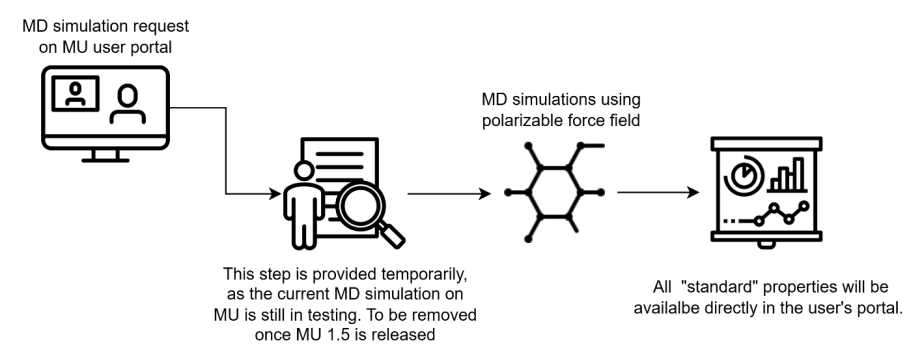
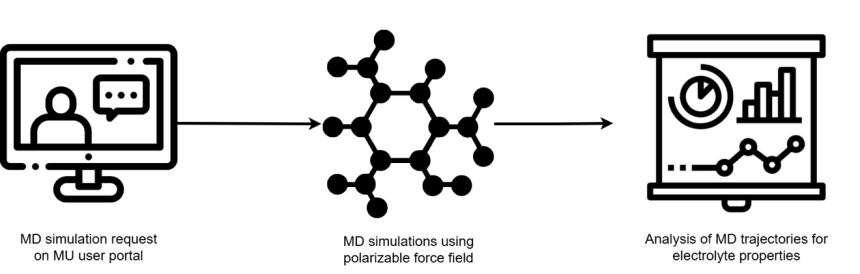
feat: update mu introduction

Changed region(s): [[0.0, 0.0292, 0.9977, 0.9635], [0.0, 0.8467, 0.1814, 0.9635]]

diff --git a/src/pages/FormulationNew/components/IntroductionNew/index.tsx b/src/pages/FormulationNew/components/IntroductionNew/index.tsx
@@ -1,5 +1,6 @@
 import React from 'react';
 import { useTranslation } from 'react-i18next';
+import { Info } from 'lucide-react';
 import PropertiesTable from '../PropertiesTable';
 import './index.css';
 
@@ -12,10 +13,7 @@ const IntroductionNew: React.FC = () => {
       <div className="function-intro-section">
         <h2 className="section-title">Function Introduction</h2>
         <p className="section-description">
-          Molecular dynamics (MD) simulations in MU's platform uniquely combine advanced polarizable force fields with an automated workflow,
-          capturing ion–solvent interactions with high fidelity. Users simply submit electrolyte formulations through the MU portal, and within days
-          receive quantitative predictions of key properties—delivering faster, more reliable insights than conventional trial-and-error or standard
-          modeling approaches.
+          Molecular dynamics (MD) simulations in MU’s platform uniquely combine advanced polarizable force fields with an automated workflow, capturing ion–solvent interactions with high fidelity. Users simply submit desired electrolyte formulations through the MU portal containing any known or unknown molecules, and within days will receive quantitative predictions of key properties—delivering faster and more accurate insights than conventional trial-and-error or classical modeling approaches.
         </p>
 
         {/* MD Service Workflow Image */}
@@ -26,7 +24,7 @@ const IntroductionNew: React.FC = () => {
             className="content-image"
           />
           <div className="image-caption">
-            Our proprietary Molecular Dynamics (MD) service for electrolyte formulation
+            [Caption] Our proprietary Molecular Dynamics (MD) service for electrolyte formulation
           </div>
         </div>
       </div>
@@ -36,12 +34,10 @@ const IntroductionNew: React.FC = () => {
         <div className="content-layout">
           <div className="content-text" style={{ paddingTop: '45px' }}>
             <p className="content-description">
-              MU's proprietary MD service provides molecular-level snapshots of electrolyte formulations, capturing how Li⁺, anions, and solvents
-              organize at different salt concentrations.
+              MU’s proprietary MD service provides molecular-level snapshots of electrolyte formulations, capturing how Li⁺, anions, and solvent molecules organize at different salt concentrations.
             </p>
             <p className="content-description">
-              Each simulation run completes in ~3 days, after which customers receive quantitative property predictions—delivering
-              fast, reliable insights to guide electrolyte design and optimization beyond traditional trial-and-error approaches.
+              Each standard simulation run completes in ~3 days depending on the complexity of the formulation, after which customers receive quantitative property predictions—delivering fast and reliable insights to guide electrolyte design and optimization, which saves tremendous cost and time.
             </p>
           </div>
           <div className="content-image-section">
@@ -51,7 +47,7 @@ const IntroductionNew: React.FC = () => {
               className="content-image"
             />
             <div className="image-caption">
-              Accelerating electrolyte design with MD simulations across concentrations
+              [Caption] Accelerating electrolyte design with MD simulations across concentrations
             </div>
           </div>
         </div>
@@ -65,7 +61,8 @@ const IntroductionNew: React.FC = () => {
         </div>
         <div className="properties-note">
           <p className="note-text">
-            The properties listed as Group 1 will be available in 3 days as soon as the MD simulations are complete. For other properties, please contact our team.
+            <Info size={16} style={{ marginRight: '8px', flexShrink: 0 }} />
+            <span>Properties listed as Standard Properties will be available in about 3 days as soon as the MD simulations are complete. For other properties, please contact our team.</span>
           </p>
           <button className="contact-team-button">
             Contact Team
@@ -85,8 +82,7 @@ const IntroductionNew: React.FC = () => {
           <div className="property-number">01</div>
           <h3 className="property-title">Radial distribution function (RDF)</h3>
           <p className="property-description">
-            Probability of finding a particle at a given distance from a reference particle, describing local structure.
-            This has impacts on solubility, conductivity, dissolution at electrolyte-electrode interphase, and SEI.
+            Probability of finding a particle at a given distance from a reference particle. RDF describes local structure of electrolytes, which directly impacts solubility, miscibility, ion conductivity, solvation structure and interphases. 
           </p>
         </div>
 
@@ -95,7 +91,7 @@ const IntroductionNew: React.FC = () => {
           <div className="property-number">02</div>
           <h3 className="property-title">Coordination number (CN)</h3>
           <p className="property-description">
-            Average number of neighboring atoms/ions surrounding a central particle.
+           Average number of neighboring atoms/molecules surrounding a central ion. This has impact on conductivity, solubility and interphases.
           </p>
         </div>
 
@@ -105,7 +101,7 @@ const IntroductionNew: React.FC = () => {
           <h3 className="property-title">Solvation cluster analysis</h3>
           <div className="property-description-wrapper">
             <p className="property-description">
-              Analyzes how cations and anions associate in electrolyte solutions through three key configurations:
+              Analyzes how cations and anions associate in electrolyte solutions. Three major cluster types: 
             </p>
 
             {/* SSIP */}
@@ -114,8 +110,7 @@ const IntroductionNew: React.FC = () => {
               <div className="cluster-details">
                 <h4 className="cluster-name">Solvent-Separated Ion Pair</h4>
                 <p className="cluster-desc">
-                  Cation-anion correlated but at least one solvent molecule sits between. Favored in high-dielectric solvents;
-                  supports higher Li⁺ mobility.
+                 Cation-anion associated but with at least one solvent molecule sits between them. Such species prevail in high-dielectric solvents; supports higher Li⁺ mobility and typically higher conductivity.
                 </p>
               </div>
             </div>
@@ -126,8 +121,7 @@ const IntroductionNew: React.FC = () => {
               <div className="cluster-details">
                 <h4 className="cluster-name">Contact Ion Pair</h4>
                 <p className="cluster-desc">
-                  Cation-anion directly contact, no solvent in between. More common at higher salt concentration;
-                  can slow down ion transport.
+                 Cation–anion forms direct contact with no solvent molecules in between. Such species are more common at higher salt concentration or in solvents of low dielectric constants; their existence can slow down ion transport, leading to typically lower conductivity.
                 </p>
               </div>
             </div>
@@ -138,8 +132,7 @@ const IntroductionNew: React.FC = () => {
               <div className="cluster-details">
                 <h4 className="cluster-name">Aggregate</h4>
                 <p className="cluster-desc">
-                  Larger clusters with multiple cations/anions linked together. Dominant in concentrated electrolytes;
-                  often reduces conductivity.
+                 Larger clusters with multiple cations/anions linked together. Dominant in concentrated electrolytes; often reduces conductivity. 
                 </p>
               </div>
             </div>
@@ -155,7 +148,7 @@ const IntroductionNew: React.FC = () => {
             </div>
 
             <p className="cluster-summary">
-              The fraction of SSIP/CIP/AGG provides a structural descriptor linking solvation environment to ionic conductivity, viscosity, and Li⁺ transport behavior.
+              The fraction of SSIP/CIP/AGG provides a structural descriptor linking solvation environment to viscosity, and Li⁺ transport behavior such as ion conductivity, transference number.
             </p>
           </div>
         </div>
@@ -165,7 +158,7 @@ const IntroductionNew: React.FC = () => {
           <div className="property-number">04</div>
           <h3 className="property-title">Diffusivity</h3>
           <p className="property-description">
-            Rate of particle spreading due to random motion, linked to mobility.
+            Rate at which particles move randomly in the absence of an electric field, closely related to migration properties like mobility. 
           </p>
         </div>
 
@@ -175,7 +168,7 @@ const IntroductionNew: React.FC = () => {
           <h3 className="property-title">Conductivity</h3>
           <div className="property-description-wrapper">
             <p className="property-description">
-              Ability of ions/electrons to carry charge through a medium. As shown in the figure below, our MD-calculated ionic conductivity aligns well with experimental benchmarks, providing reliable predictions for electrolyte design.
+              Ability of ions or other charged particles to carry charges through a medium under the action of electric field. Benchmark of predicted ionic conductivity against experimental values can be seen in the following figure.  
             </p>
 
             <div className="property-image-section">
@@ -186,7 +179,13 @@ const IntroductionNew: React.FC = () => {
               />
               <div className="image-caption">MD Simulation Accuracy: Predicted vs. Measured Ionic Conductivity</div>
               <p className="image-description">
-                Our molecular dynamics simulations demonstrate excellent agreement with experimental ionic conductivity measurements across over 100 electrolyte formulation systems (0-40 mS/cm). Points close to the diagonal line indicate high prediction accuracy, giving you confidence in simulation-based screening before synthesis.
+                Our molecular dynamics simulations (blue points) show excellent agreement with experimental ionic conductivity measurements across more than 100 electrolyte formulations spanning 0–40 mS cm⁻¹. The benchmark includes a wide variety of common and novel solvents— sulfone, sulfite, ether, ester, carbonate, nitrile, siloxane, borate, phosphate ester. 
+              </p>
+              <p className="image-description">
+                In contrast, the external machine-learning force field (MLFF, open circles) has been benchmarked only on a small subset of carbonate systems. Our force field achieves accuracy on par with, and in many cases exceeding, the MLFF in those carbonate systems, while also demonstrating high predictive power across a far broader chemical space where the MLFF’s performance remains untested. 
+              </p>
+              <p className="image-description">
+                Points lying near the black diagonal (y = x) confirm the reliability of our simulation-based screening before synthesis. 
               </p>
             </div>
           </div>
@@ -215,7 +214,7 @@ const IntroductionNew: React.FC = () => {
       <div className="content-section">
         <div className="group-header">
           <span className="group-label">GROUP 02</span>
-          <h2 className="section-title group-title">Instructions Needed</h2>
+          <h2 className="section-title group-title">Advanced Analysis</h2>
         </div>
 
         {/* Property 08: Ion–ion correlation */}
@@ -223,7 +222,7 @@ const IntroductionNew: React.FC = () => {
           <div className="property-number">08</div>
           <h3 className="property-title">Ion–ion correlation</h3>
           <p className="property-description">
-            Measure of how ionic positions and motions are correlated beyond random distribution.
+            Measure of how ionic species are correlated beyond random distribution. 
           </p>
         </div>
 
@@ -241,7 +240,7 @@ const IntroductionNew: React.FC = () => {
           <div className="property-number">10</div>
           <h3 className="property-title">Dynamic structure factor (S(q,ω))</h3>
           <p className="property-description">
-            Function describing the space-time correlations of particles.
+            Function describing the space-time correlations of particles. 
           </p>
         </div>
 
@@ -250,7 +249,7 @@ const IntroductionNew: React.FC = () => {
           <div className="property-number">11</div>
           <h3 className="property-title">Residence time</h3>
           <p className="property-description">
-            Average time an ion/molecule stays bound or in the vicinity of another species.
+            Average time an ion/molecule stays bound or in the vicinity of another species.  
           </p>
         </div>
       </div>
@@ -259,7 +258,7 @@ const IntroductionNew: React.FC = () => {
       <div className="content-section">
         <div className="group-header">
           <span className="group-label">GROUP 03</span>
-          <h2 className="section-title group-title">Advanced Properties</h2>
+          <h2 className="section-title group-title">Custom Studies</h2>
         </div>
 
         {/* Property 12: EDL */}
@@ -278,7 +277,7 @@ const IntroductionNew: React.FC = () => {
                 className="property-image"
               />
               <div className="image-caption">
-                Electric double layer under well-controlled electrostatic potential. In this MD simulation, electrolyte is created between two electrodes. By mimicking the potential change across the quasi cell, surface structure under electrostatic potential can be studied.
+                Electric double layer structure under well-controlled electrostatic potential. In this snapshot of MD simulation, electrolyte of given formulation from the user is placed between two electrodes. By mimicking the potential change across the virtual cell, surface structure under electrostatic potential can be visualized, whose chemical distribution predetermines the eventual interphasial chemistries.
               </div>
             </div>
           </div>
@@ -290,7 +289,7 @@ const IntroductionNew: React.FC = () => {
           <h3 className="property-title">Solubility</h3>
           <div className="property-description-wrapper">
             <p className="property-description">
-              Maximum amount of a substance that can dissolve in a solvent under equilibrium conditions.
+              Maximum amount of a salt or a molecular species that can be homogenously distributed (i.e., dissolved or blended) in a given medium under equilibrium conditions.
             </p>
 
             <div className="property-image-section">
@@ -300,7 +299,7 @@ const IntroductionNew: React.FC = () => {
                 className="property-image"
               />
               <div className="image-caption">
-                Our MD Simulations Accurately Predict solubility of LiFSI in 19 solvents. Points close to the diagonal line indicate high prediction accuracy, giving you confidence in simulation-based screening before synthesis.
+                Our MD Simulations accurately predicts the solubility of a typical lithium salt LiFSI in 19 solvents of diverse chemical structures and functional groups. Points close to the diagonal line indicate high prediction accuracy, giving you confidence in simulation-based screening before synthesis. 
               </div>
             </div>
           </div>

diff --git a/src/pages/FormulationNew/components/Introduction/index.tsx b/src/pages/FormulationNew/components/Introduction/index.tsx
@@ -34,38 +34,42 @@ const Introduction: React.FC = () => {
       <div className="guide-content-section">
         <h4>Group 1. Standard properties</h4>
         <ol>
-          <li><strong>Radial distribution function (RDF)</strong>: Probability of finding a particle at a given distance from a reference particle, describing local structure. This has impacts on solubility, conductivity, dissolution at electrolyte-electrode interphase, and SEI.</li>
-          <li><strong>Coordination number (CN)</strong>: Average number of neighboring atoms/ions surrounding a central particle.</li>
-          <li><strong>Solvation cluster type and fraction analysis</strong>: Analyzes how cations and anions associate in electrolyte solutions:
-            <br />• <strong>SSIP (Solvent-Separated Ion Pair)</strong>: Cation-anion correlated but at least one solvent molecule sits between. Favored in high-dielectric solvents; supports higher Li⁺ mobility.
-            <br />• <strong>CIP (Contact Ion Pair)</strong>: Cation-anion directly contact, no solvent in between. More common at higher salt concentration; can slow down ion transport.
+          <li><strong>Radial distribution function (RDF)</strong>: Probability of finding a particle at a given distance from a reference particle. RDF describes local structure of electrolytes, which directly impacts solubility, miscibility, ion conductivity, solvation structure and interphases.</li>
+          <li><strong>Coordination number (CN)</strong>: Average number of neighboring atoms/molecules surrounding a central ion. This has impact on conductivity, solubility and interphases.</li>
+          <li><strong>Solvation cluster type and fraction analysis</strong>: Analyzes how cations and anions associate in electrolyte solutions. Three major cluster types:
+            <br />• <strong>SSIP (Solvent-Separated Ion Pair)</strong>: Cation-anion associated but with at least one solvent molecule sits between them. Such species prevail in high-dielectric solvents; supports higher Li⁺ mobility and typically higher conductivity.
+            <br />• <strong>CIP (Contact Ion Pair)</strong>: Cation–anion forms direct contact with no solvent molecules in between. Such species are more common at higher salt concentration or in solvents of low dielectric constants; their existence can slow down ion transport, leading to typically lower conductivity.
             <br />• <strong>AGG (Aggregate)</strong>: Larger clusters with multiple cations/anions linked together. Dominant in concentrated electrolytes; often reduces conductivity.
-            <br />The fraction of SSIP/CIP/AGG provides a structural descriptor linking solvation environment to ionic conductivity, viscosity, and Li⁺ transport behavior.
+            <br />The fraction of SSIP/CIP/AGG provides a structural descriptor linking solvation environment to viscosity, and Li⁺ transport behavior such as ion conductivity, transference number.
             <div className="cluster-illustration">
               <img src="/formulation/cluster-illustration.jpg" alt="Solvation cluster types illustration" />
               <div className="figure-caption">Representative Li solvate clusters</div>
             </div>
           </li>
-          <li><strong>Diffusivity</strong>: Rate of particle spreading due to random motion, linked to mobility.</li>
-          <li><strong>Conductivity</strong>: Ability of ions/electrons to carry charge through a medium. As shown in the figure below, our MD-calculated ionic conductivity aligns well with experimental benchmarks, providing reliable predictions for electrolyte design.</li>
+          <li><strong>Diffusivity</strong>: Rate at which particles move randomly in the absence of an electric field, closely related to migration properties like mobility.</li>
+          <li><strong>Conductivity</strong>: Ability of ions or other charged particles to carry charges through a medium under the action of electric field. Benchmark of predicted ionic conductivity against experimental values can be seen in the following figure.</li>
           <li><strong>Viscosity</strong>: Resistance of a fluid to flow or deformation under shear stress.</li>
           <li><strong>Density</strong>: Mass per unit volume, reflecting system compactness.</li>
         </ol>
         <img src="/formulation/introduction4.png" alt="MD simulation results" />
         <div className="figure-caption">MD Simulation Accuracy: Predicted vs. Measured Ionic Conductivity</div>
         <p>
-        Our molecular dynamics simulations demonstrate excellent agreement with experimental ionic conductivity measurements across over 100 
-        electrolyte formulation systems (0-40 mS/cm). Points close to the diagonal line indicate high prediction accuracy, giving you confidence in 
-        simulation-based screening before synthesis.
+        Our molecular dynamics simulations (blue points) show excellent agreement with experimental ionic conductivity measurements across more than 100 electrolyte formulations spanning 0–40 mS cm⁻¹. The benchmark includes a wide variety of common and novel solvents— sulfone, sulfite, ether, ester, carbonate, nitrile, siloxane, borate, phosphate ester.
+        </p>
+        <p>
+        In contrast, the external machine-learning force field (MLFF, open circles) has been benchmarked only on a small subset of carbonate systems. Our force field achieves accuracy on par with, and in many cases exceeding, the MLFF in those carbonate systems, while also demonstrating high predictive power across a far broader chemical space where the MLFF's performance remains untested.
+        </p>
+        <p>
+        Points lying near the black diagonal (y = x) confirm the reliability of our simulation-based screening before synthesis.
         </p>
       </div>
 
       <div className="guide-content-section">
         <h4>Group 2. Instructions needed</h4>
         <ol start={8}>
-        <li><strong>Ion–ion correlation</strong>: Measure of how ionic positions and motions are correlated beyond random distribution.</li>
+        <li><strong>Ion–ion correlation</strong>: Measure of how ionic species are correlated beyond random distribution.</li>
           <li><strong>Structure factor (S(q))</strong>: Quantifies how atomic arrangements scatter radiation, revealing ordering in reciprocal space.</li>
-          <li><strong>Dynamic structure factor (S(q,ω))</strong>: function describing the space-time correlations of particles.</li>
+          <li><strong>Dynamic structure factor (S(q,ω))</strong>: Function describing the space-time correlations of particles.</li>
           <li><strong>Residence time</strong>: Average time an ion/molecule stays bound or in the vicinity of another species.</li>
         </ol>
       </div>
@@ -74,15 +78,13 @@ const Introduction: React.FC = () => {
         <h4>Group 3. </h4>
         <p>12. <strong>EDL (Electric Double Layer)</strong>: Structured region of ions near a charged surface or electrode. Inferring the formation of SEI compound and redox reactions.</p>
         <img src="/formulation/introduction5.png" alt="Electric Double Layer" />
-        <div className="figure-caption">Electric double layer under well-controlled electrostatic potential. In this MD simulation, electrolyte is created between two electrodes. By mimicking the potential change across the quasi cell, surface structure under electrostatic potential can be studied.</div>
+        <div className="figure-caption">Electric double layer structure under well-controlled electrostatic potential. In this snapshot of MD simulation, electrolyte of given formulation from the user is placed between two electrodes. By mimicking the potential change across the virtual cell, surface structure under electrostatic potential can be visualized, whose chemical distribution predetermines the eventual interphasial chemistries.</div>
 
         <ol start={13}>
-          <li><strong>Solubility</strong>: Maximum amount of a substance that can dissolve in a solvent under equilibrium conditions.</li>
+          <li><strong>Solubility</strong>: Maximum amount of a salt or a molecular species that can be homogenously distributed (i.e., dissolved or blended) in a given medium under equilibrium conditions.</li>
         </ol>
         <img src="/formulation/introduction6.png" alt="Solubility calculation" />
-        <div className="figure-caption">Our MD Simulations Accurately Predict solubility of LiFSI in 19 solvents. Points close to the diagonal 
-line indicate high prediction accuracy, giving you confidence in simulation-based screening before 
-synthesis.</div>
+        <div className="figure-caption">Our MD Simulations accurately predicts the solubility of a typical lithium salt LiFSI in 19 solvents of diverse chemical structures and functional groups. Points close to the diagonal line indicate high prediction accuracy, giving you confidence in simulation-based screening before synthesis.</div>
       </div>
     </div>
   );

diff --git a/src/pages/FormulationNew/components/IntroductionNew/index.css b/src/pages/FormulationNew/components/IntroductionNew/index.css
@@ -125,6 +125,8 @@
   line-height: 1.6;
   margin: 0;
   flex: 1;
+  display: flex;
+  align-items: center;
 }
 
 .contact-team-button {
